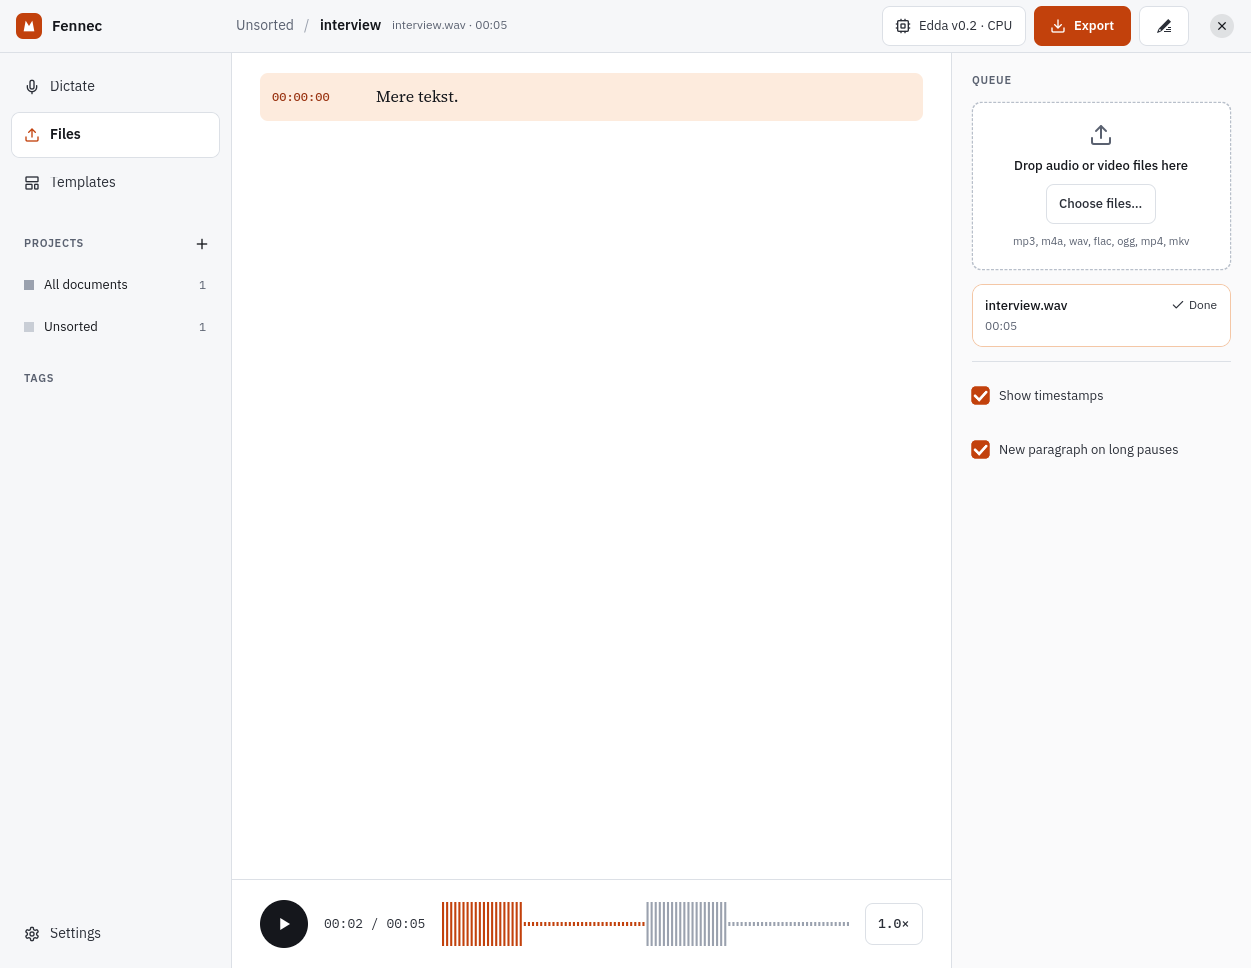
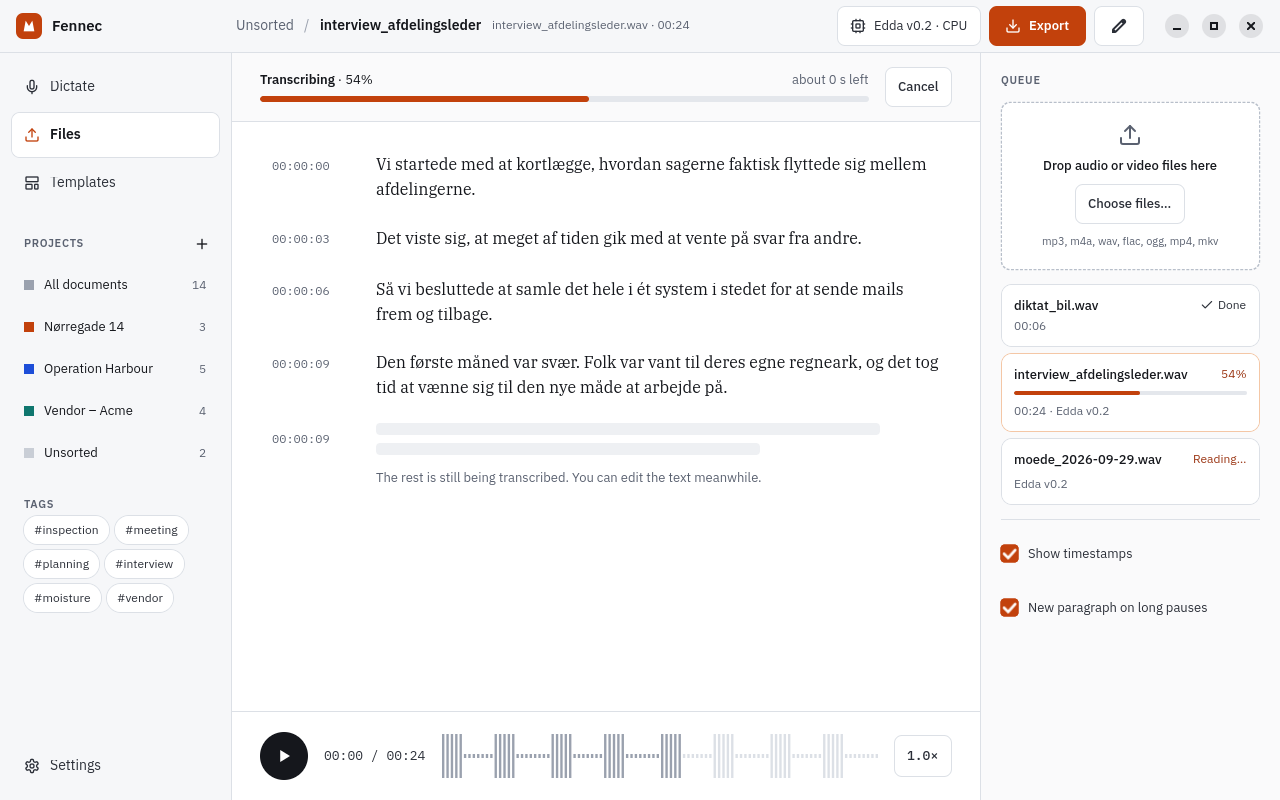
README: 0.4.0 screenshots, built-in AI and first-launch size
New screenshots from the current UI (dictation, files, speech models,
AI actions, built-in models, project questions, templates); the old
pre-redesign shots and the dark-style shot are gone. The mockup now
seeds the English model so the speech-model page shows it installed.

Also: first-launch download is up to about 1.6 GB with English, the
built-in package has been tried, and the stale Hviske v6 note is gone.

diff --git a/tests/mockup/main.rs b/tests/mockup/main.rs
@@ -256,6 +256,12 @@ viceværten været kendt siden sidste vinter.\n\n**Opfølgning**\n- Undersøg ne
 fn seed(root: &Path) -> (DocumentId, ProjectId, DocumentId) {
     std::fs::create_dir_all(root.join("data/models")).unwrap();
     std::fs::write(root.join("data/models/edda-v0.2-q4_k.bin"), b"stand-in").unwrap();
+    // English too, so Dictate shows no download offer.
+    std::fs::write(
+        root.join("data/models").join(fennec::models::english().file_name),
+        b"stand-in",
+    )
+    .unwrap();
     std::fs::write(
         root.join("data/models").join(fennec::models::VAD_FILE),
         b"stand-in",
@@ -706,6 +712,7 @@ fn deps(root: &Path, llm: &MockLlm) -> Deps {
             });
             std::fs::create_dir_all(p.models().join(fennec::punctuation::DIR)).unwrap();
             std::fs::write(s.model_path(p), b"stand-in").unwrap();
+            std::fs::write(s.english_model_path(p), b"stand-in").unwrap();
             std::fs::write(p.models().join(fennec::models::VAD_FILE), b"stand-in").unwrap();
             for f in fennec::punctuation::FILES {
                 std::fs::write(p.models().join(fennec::punctuation::DIR).join(f), b"stand-in").unwrap();

diff --git a/README.md b/README.md
@@ -15,7 +15,7 @@ No audio leaves the machine, and no account or internet connection is needed onc
 ![Linux](https://img.shields.io/badge/platform-Linux-333?logo=linux&logoColor=white)
 ![Vulkan · CUDA · CPU](https://img.shields.io/badge/GPU-Vulkan_·_CUDA_·_CPU-5b3e96)
 
-<img src="docs/screenshots/hero.png" width="860" alt="A meeting document in Fennec, with report fields and a local AI summary">
+<img src="docs/screenshots/hero.png" width="860" alt="Dictating an inspection report in Fennec, with report fields and an AI suggestion">
 
 </div>
 
@@ -51,34 +51,43 @@ disk.
   them together.
 - 🤖 **Optional AI** (off by default): meeting notes (summary, decisions,
   tasks with owners and dates, open questions), summaries, proofreading shown
-  as a diff,
-  action items and questions answered from a project with sources. Works with
-  a built-in model that runs on this computer (Gemma 4, one-click download),
-  Claude, ChatGPT, or your own server (Ollama, llama.cpp, LM Studio, vLLM).
+  as a diff, action items and questions answered from a project with sources.
+  Works with a built-in model that runs on this computer (Gemma 4, one-click
+  download), Claude, ChatGPT, or your own server (Ollama, llama.cpp,
+  LM Studio, vLLM).
 - 📱 **Record on your phone**: Fennec Recorder for Android records meetings
   and sends the audio straight to Fennec over your own network, where it is
   transcribed like any file. See [`android/`](android/README.md).
 
-The interface is in English; transcripts are in Danish or English, and AI answers in the transcript's language unless you pick one.
+The interface is in English; transcripts are in Danish or English, and AI
+answers in the transcript's language unless you pick one.
 
 ## Screenshots
 
 <table>
   <tr>
     <td><img src="docs/screenshots/files.png" alt="Transcribing a file"></td>
-    <td><img src="docs/screenshots/settings.png" alt="Speech model settings"></td>
+    <td><img src="docs/screenshots/speech-model.png" alt="Speech model settings with Edda v0.2, the English model and links to more models"></td>
   </tr>
   <tr>
     <td align="center"><sub>Transcribe audio and video files</sub></td>
-    <td align="center"><sub>Pick and install speech models</sub></td>
+    <td align="center"><sub>Danish and English speech models</sub></td>
   </tr>
   <tr>
+    <td><img src="docs/screenshots/ai-actions.png" alt="The AI actions menu: meeting notes, summary, proofreading, action items, field suggestions"></td>
+    <td><img src="docs/screenshots/built-in-ai.png" alt="Built-in Gemma 4 models ready to download in AI providers"></td>
+  </tr>
+  <tr>
+    <td align="center"><sub>Meeting notes, summaries and proofreading</sub></td>
+    <td align="center"><sub>Built-in AI that runs on this computer</sub></td>
+  </tr>
+  <tr>
+    <td><img src="docs/screenshots/ask.png" alt="Asking a question about a project, answered with sources"></td>
     <td><img src="docs/screenshots/templates.png" alt="Report template editor with a PDF preview"></td>
-    <td><img src="docs/screenshots/dark.png" alt="Dark style"></td>
   </tr>
   <tr>
+    <td align="center"><sub>Ask a project, with sources</sub></td>
     <td align="center"><sub>Report templates with a live preview</sub></td>
-    <td align="center"><sub>Dictation, in the dark style</sub></td>
   </tr>
 </table>
 
@@ -110,8 +119,10 @@ package, run `make deb FEATURES=vulkan` and then
 `sudo apt install ./target/debian/fennec_*.deb`.
 
 On first launch, a bar offers a **single download** of everything dictation
-needs: the speech model, the voice detector and the punctuation model, about
-1 GB together. Nothing else needs to be set up.
+needs: the speech model, the voice detector and the punctuation model, plus
+the English model if you may speak English, up to about 1.6 GB together.
+Nothing else needs to be set up. The built-in AI models are optional and
+downloaded separately (see [Built-in AI](#built-in-ai)).
 
 <details>
 <summary>Optional extras and building without root</summary>
@@ -324,11 +335,9 @@ The design, with its reasoning and measurements, is in
 - The AI actions are tested against mock servers that speak each API, but not
   yet with a real Claude or ChatGPT key. The built-in models were tried with
   llama.cpp started by hand (`cargo test --test ai -- --ignored`, see
-  `real_built_in_model_writes_meeting_notes`), not yet from the installed
-  package. A source install (`make install`) uses a `llama-server` on the
+  `real_built_in_model_writes_meeting_notes`), and the 0.4.0 package was
+  installed and tried on Ubuntu with an AMD 780M. A source install (`make install`) uses a `llama-server` on the
   PATH, or `FENNEC_LLAMA_SERVER`.
-- Hviske v6 is tested with a stand-in model; the real 2.8 GB model has not
-  been run (`cargo test --test sidecar -- --ignored` once it is downloaded).
 
 ## Credits
 
